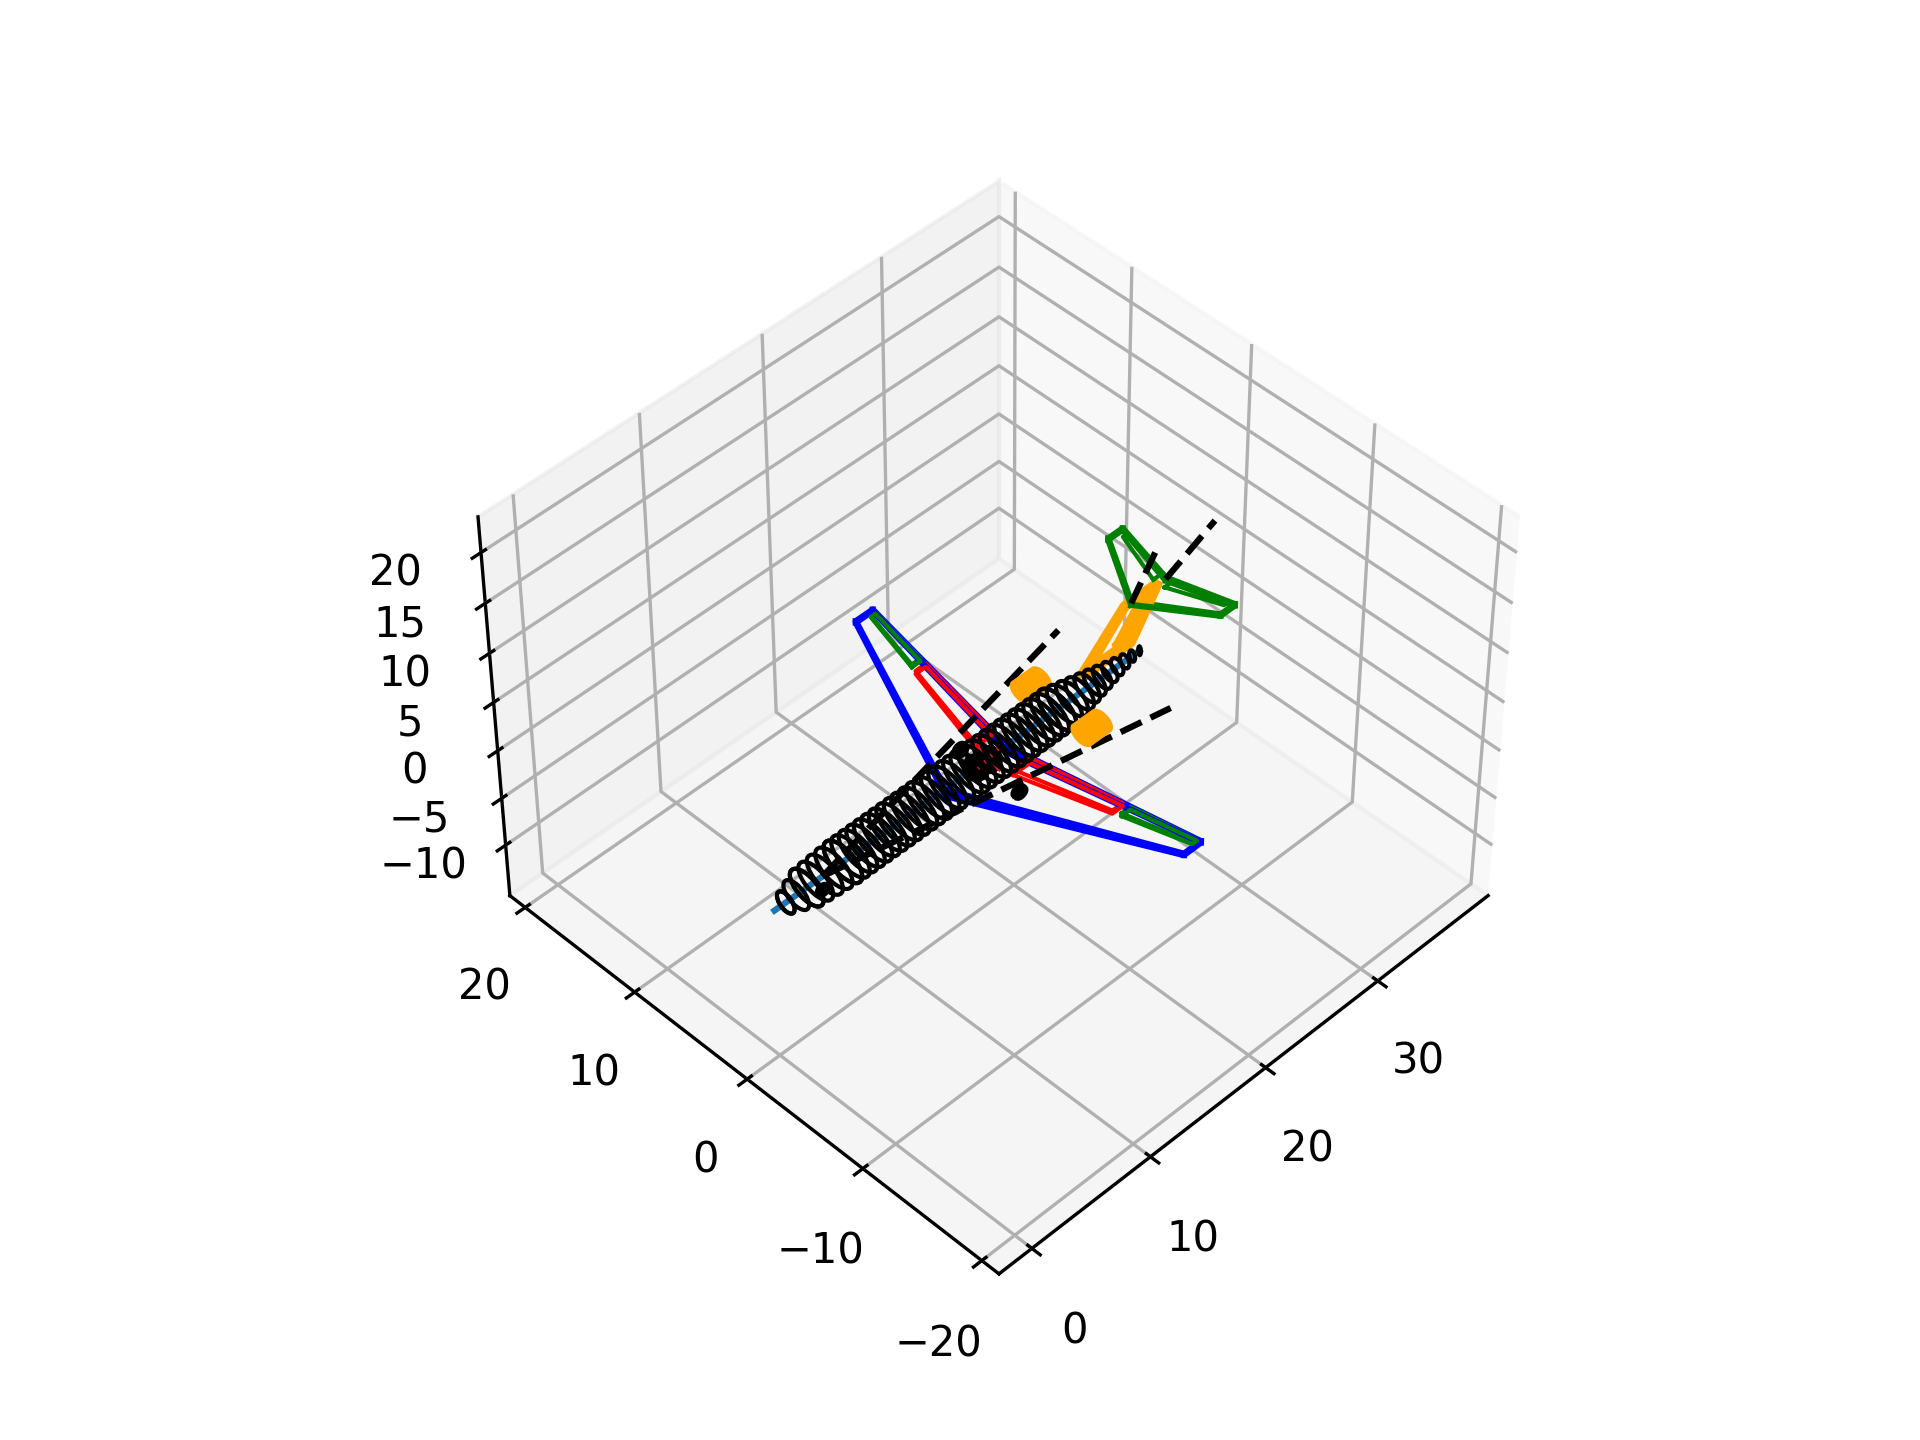
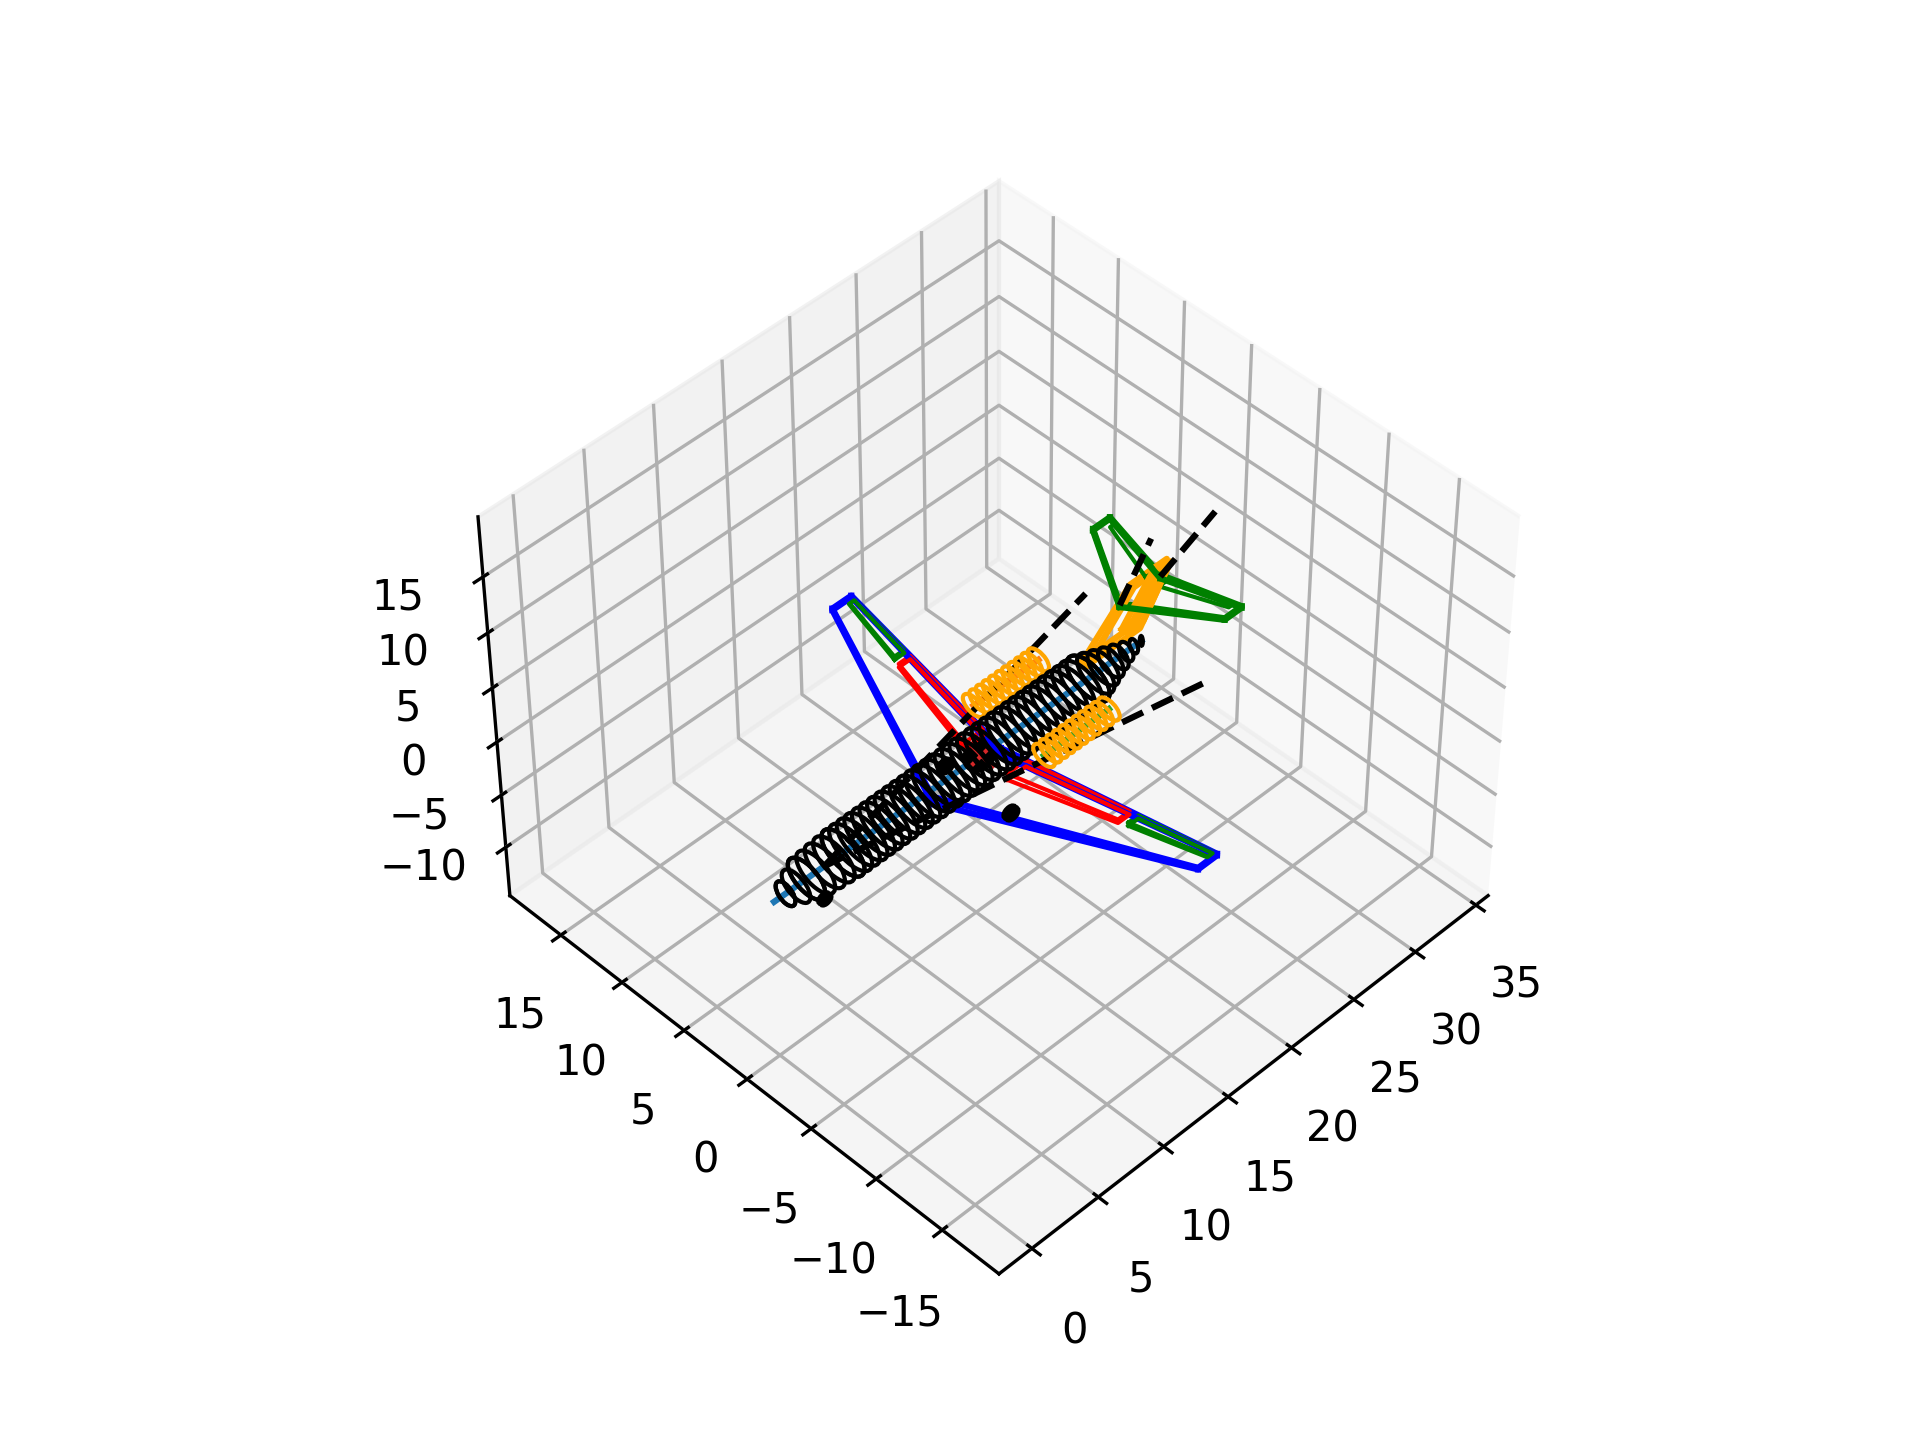
Fokker 70 fixes

diff --git a/designTool.py b/designTool.py
@@ -3246,17 +3246,17 @@ def standard_airplane(name="fokker100"):
             "taper_w": 0.28,  # Wing taper ratio
             "sweep_w": 19.9 * np.pi / 180,  # Wing sweep [rad]
             "dihedral_w": 3 * np.pi / 180,  # Wing dihedral [rad]
-            "xr_w": 14.2,  # Longitudinal position of the wing (with respect to the fuselage nose) [m]
-            "zr_w": -0.5,  # Vertical position of the wing (with respect to the fuselage nose) [m]
+            "xr_w": 11.72,  # Longitudinal position of the wing (with respect to the fuselage nose) [m]
+            "zr_w": -1.01,  # Vertical position of the wing (with respect to the fuselage nose) [m]
             "tcr_w": 0.123,  # t/c of the root section of the wing
             "tct_w": 0.096,  # t/c of the tip section of the wing
             "Cht": 0.85,  # Horizontal tail volume coefficient
-            "Lc_h": 3.88,  # Non-dimensional lever of the horizontal tail (lever/wing_mac)
+            "Lc_h": 3.5,  # Non-dimensional lever of the horizontal tail (lever/wing_mac)
             "AR_h": 4.41,  # HT aspect ratio
             "taper_h": 0.42,  # HT taper ratio
             "sweep_h": 27.14 * np.pi / 180,  # HT sweep [rad]
             "dihedral_h": 4.2 * np.pi / 180,  # HT dihedral [rad]
-            "zr_h": 5.6,  # Vertical position of the HT [m]
+            "zr_h": 4.79,  # Vertical position of the HT [m]
             "tcr_h": 0.1,  # t/c of the root section of the HT
             "tct_h": 0.1,  # t/c of the tip section of the HT
             "eta_h": 1.0,  # Dynamic pressure factor of the HT
@@ -3268,13 +3268,13 @@ def standard_airplane(name="fokker100"):
             "zr_v": 1.65,  # Vertical position of the VT [m]
             "tcr_v": 0.1,  # t/c of the root section of the VT
             "tct_v": 0.1,  # t/c of the tip section of the VT
-            "L_f": 30.91,  # Fuselage length [m]
+            "L_f": 27.878,  # Fuselage length [m]
             "D_f": 3.3,  # Fuselage diameter [m]
-            "x_n": 23.2,  # Longitudinal position of the nacelle frontal face [m]
-            "y_n": 2.6,  # Lateral position of the nacelle centerline [m]
-            "z_n": 0.0,  # Vertical position of the nacelle centerline [m]
-            "L_n": 1.70,  # Nacelle length [m]
-            "D_n": 1.6,  # Nacelle diameter [m]
+            "x_n": 17.52,  # Longitudinal position of the nacelle frontal face [m]
+            "y_n": 2.7,  # Lateral position of the nacelle centerline [m]
+            "z_n": 0.45,  # Vertical position of the nacelle centerline [m]
+            "L_n": 5.02,  # Nacelle length [m]
+            "D_n": 1.64,  # Nacelle diameter [m]
             "n_engines": 2,  # Number of engines
             "n_engines_under_wing": 0,  # Number of engines installed under the wing
             "engine": {
@@ -3282,10 +3282,10 @@ def standard_airplane(name="fokker100"):
                 "BPR": 3.04,  # Engine bypass ratio
                 "Cbase": 0.57 / 3600,
             },
-            "x_nlg": 3.92,  # Longitudinal position of the nose landing gear [m]
-            "x_mlg": 17.92,  # Longitudinal position of the main landing gear [m]
+            "x_nlg": 3.64,  # Longitudinal position of the nose landing gear [m]
+            "x_mlg": 15.18,  # Longitudinal position of the main landing gear [m]
             "y_mlg": 2.52,  # Lateral position of the main landing gear [m]
-            "z_lg": -1.41,  # Vertical position of the landing gear [m]
+            "z_lg": -3.05,  # Vertical position of the landing gear [m]
             "x_tailstrike": 23.68,  # Longitudinal position of critical tailstrike point [m]
             "z_tailstrike": -0.84,  # Vertical position of critical tailstrike point [m]
             "c_tank_c_w": 0.4,  # Fraction of the wing chord occupied by the fuel tank
